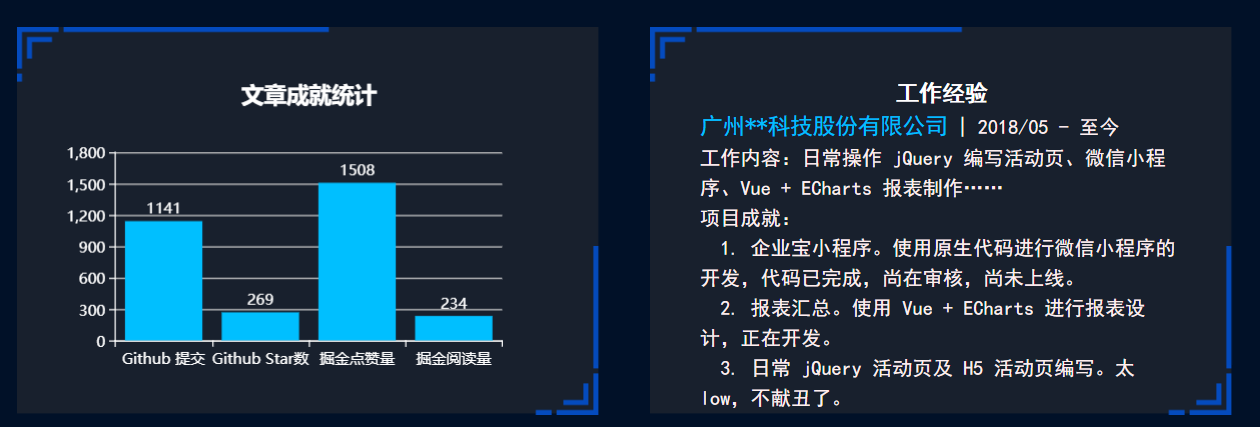
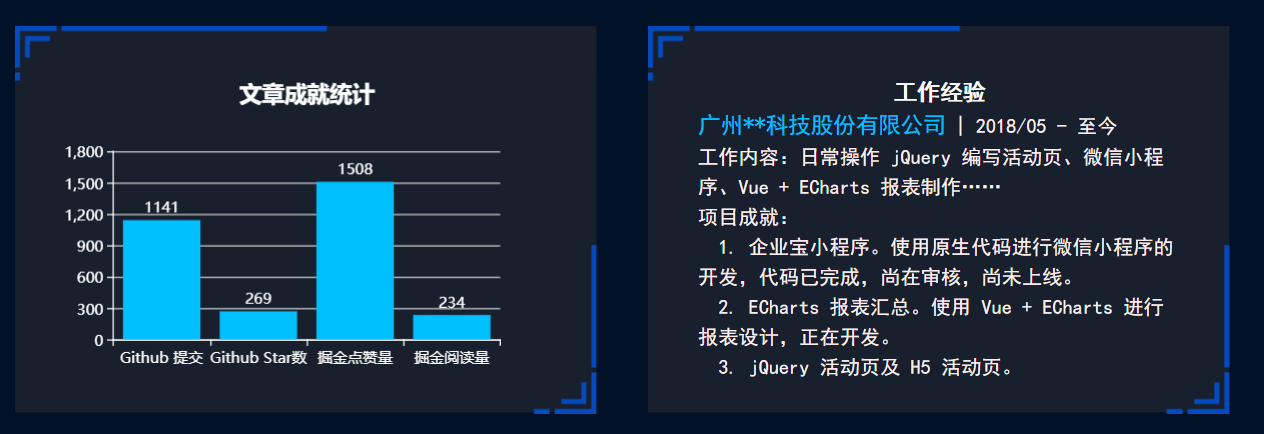
ECharts 打造在线个人简历

diff --git a/JavaScript-library/ECharts/CurriculumVitae.md b/JavaScript-library/ECharts/CurriculumVitae.md
@@ -44,7 +44,7 @@ ECharts 打造在线个人简历
 | &emsp;<a name="catalog-chapter-four-three" id="catalog-chapter-four-three"></a>[4.3 part3 - 技能特长](#chapter-four-three) |
 | &emsp;<a name="catalog-chapter-four-four" id="catalog-chapter-four-four"></a>[4.4 part4 - 文章成就](#chapter-four-four) |
 | &emsp;<a name="catalog-chapter-four-five" id="catalog-chapter-four-five"></a>[4.5 part5 - 工作经验](#chapter-four-five) |
-| &emsp;<a name="catalog-chapter-four-six" id="catalog-chapter-four-six"></a>[4.6 part6 - 自学旅途](#chapter-four-six) |
+| &emsp;<a name="catalog-chapter-four-six" id="catalog-chapter-four-six"></a>[4.6 part6 - 编程技能](#chapter-four-six) |
 | &emsp;<a name="catalog-chapter-four-seven" id="catalog-chapter-four-seven"></a>[4.7 part7 - 求职意向](#chapter-four-seven) |
 | <a name="catalog-chapter-five" id="catalog-chapter-five"></a>[五 总结](#chapter-five) |
 
@@ -1311,8 +1311,8 @@ export default {
     <p class="text-small">工作内容：日常操作 jQuery 编写活动页、微信小程序、Vue + ECharts 报表制作……</p>
     <p class="text-small">项目成就：</p>
     <p class="text-small">&emsp;1. 企业宝小程序。使用原生代码进行微信小程序的开发，代码已完成，尚在审核，尚未上线。</p>
-    <p class="text-small">&emsp;2. 报表汇总。使用 Vue + ECharts 进行报表设计，正在开发。</p>
-    <p class="text-small">&emsp;3. 日常 jQuery 活动页及 H5 活动页编写。太 low，不献丑了。</p>
+    <p class="text-small">&emsp;2. ECharts 报表汇总。使用 Vue + ECharts 进行报表设计，正在开发。</p>
+    <p class="text-small">&emsp;3. jQuery 活动页及 H5 活动页。</p>
   </div>
 </template>
 
@@ -1350,13 +1350,19 @@ a:hover {
 
 <br>
 
-## <a name="chapter-four-six" id="chapter-four-six">4.6 part6 - 自学旅途</a>
+## <a name="chapter-four-six" id="chapter-four-six">4.6 part6 - 编程技能</a>
 
 > [返回目录](#catalog-chapter-four-six)
 
 <br>
 
 &emsp;
+
+```
+
+```
+
+![图](../../public-repertory/img/js-ECharts-CurriculumVitae-16.png)
 
 <br>
 
@@ -1367,6 +1373,12 @@ a:hover {
 <br>
 
 &emsp;
+
+```
+
+```
+
+![图](../../public-repertory/img/js-ECharts-CurriculumVitae-17.png)
 
 <br>
 
